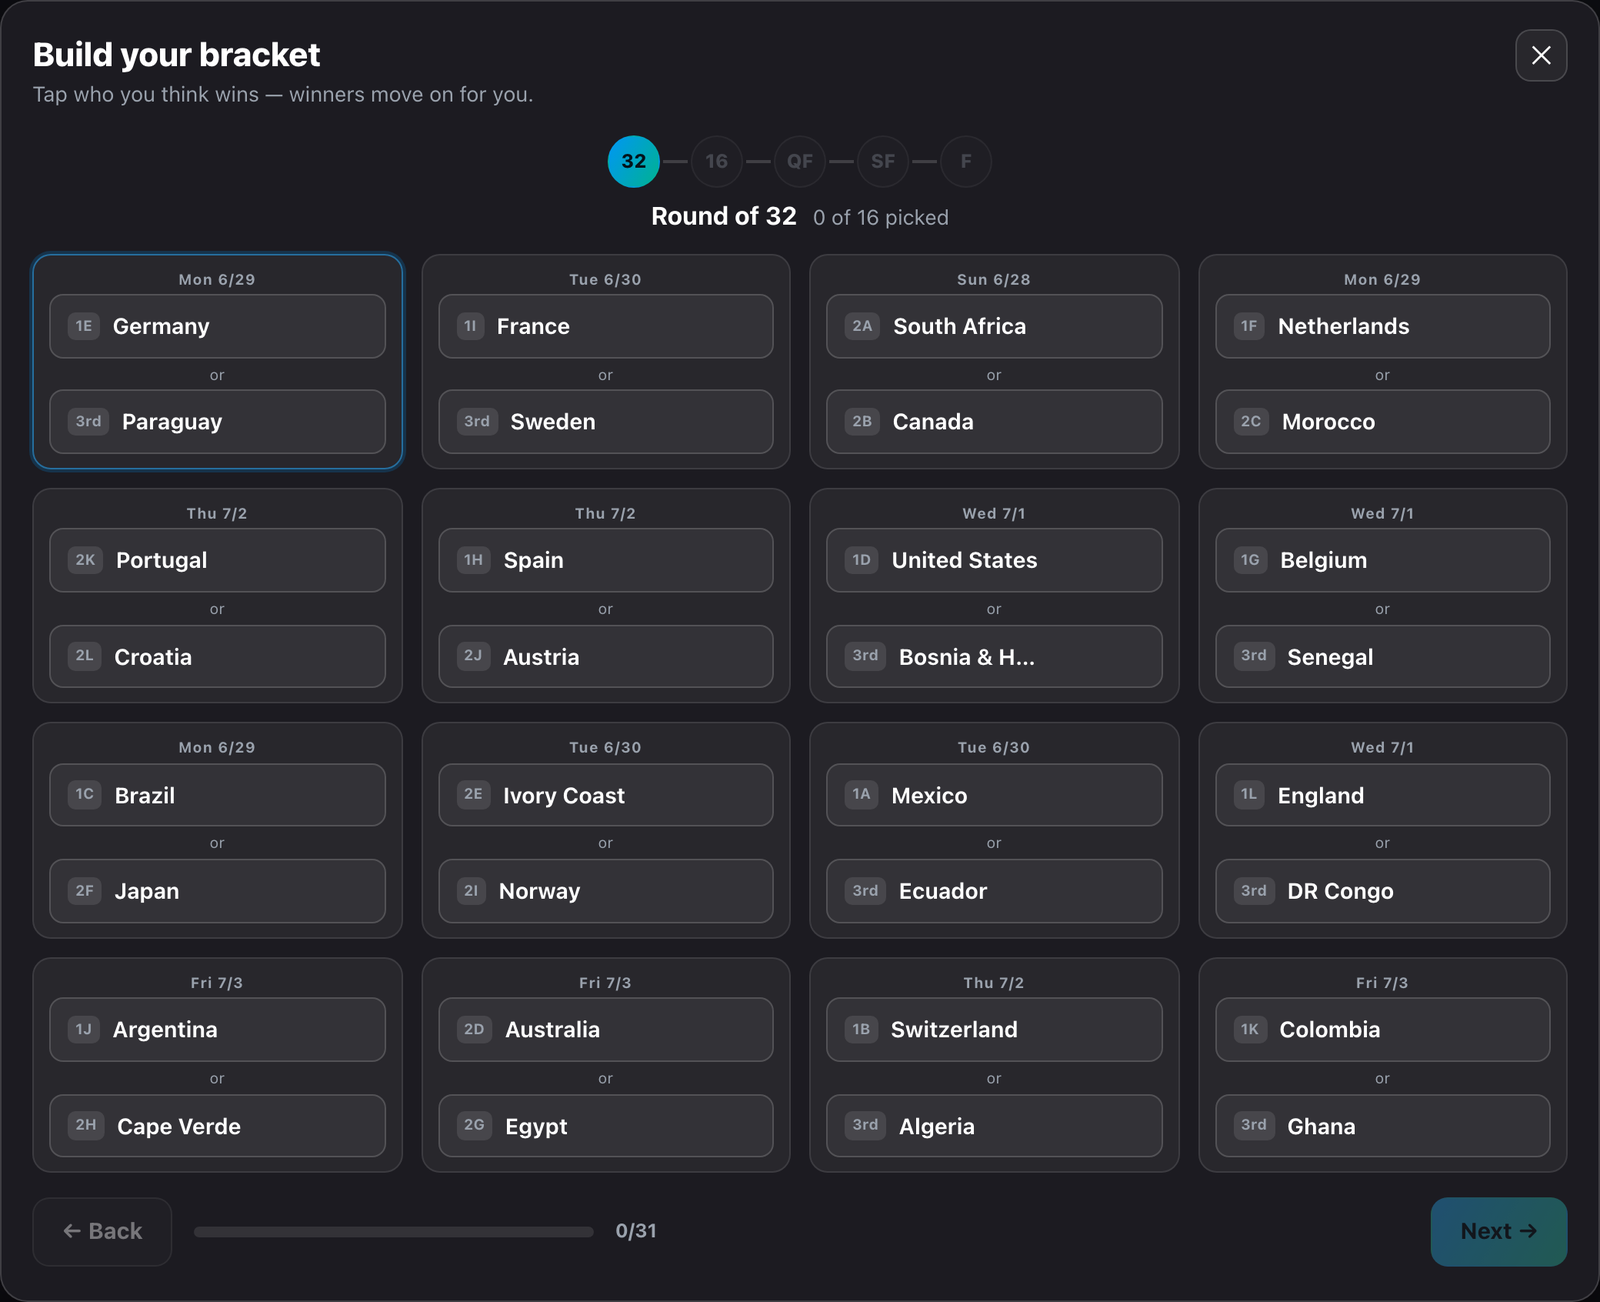
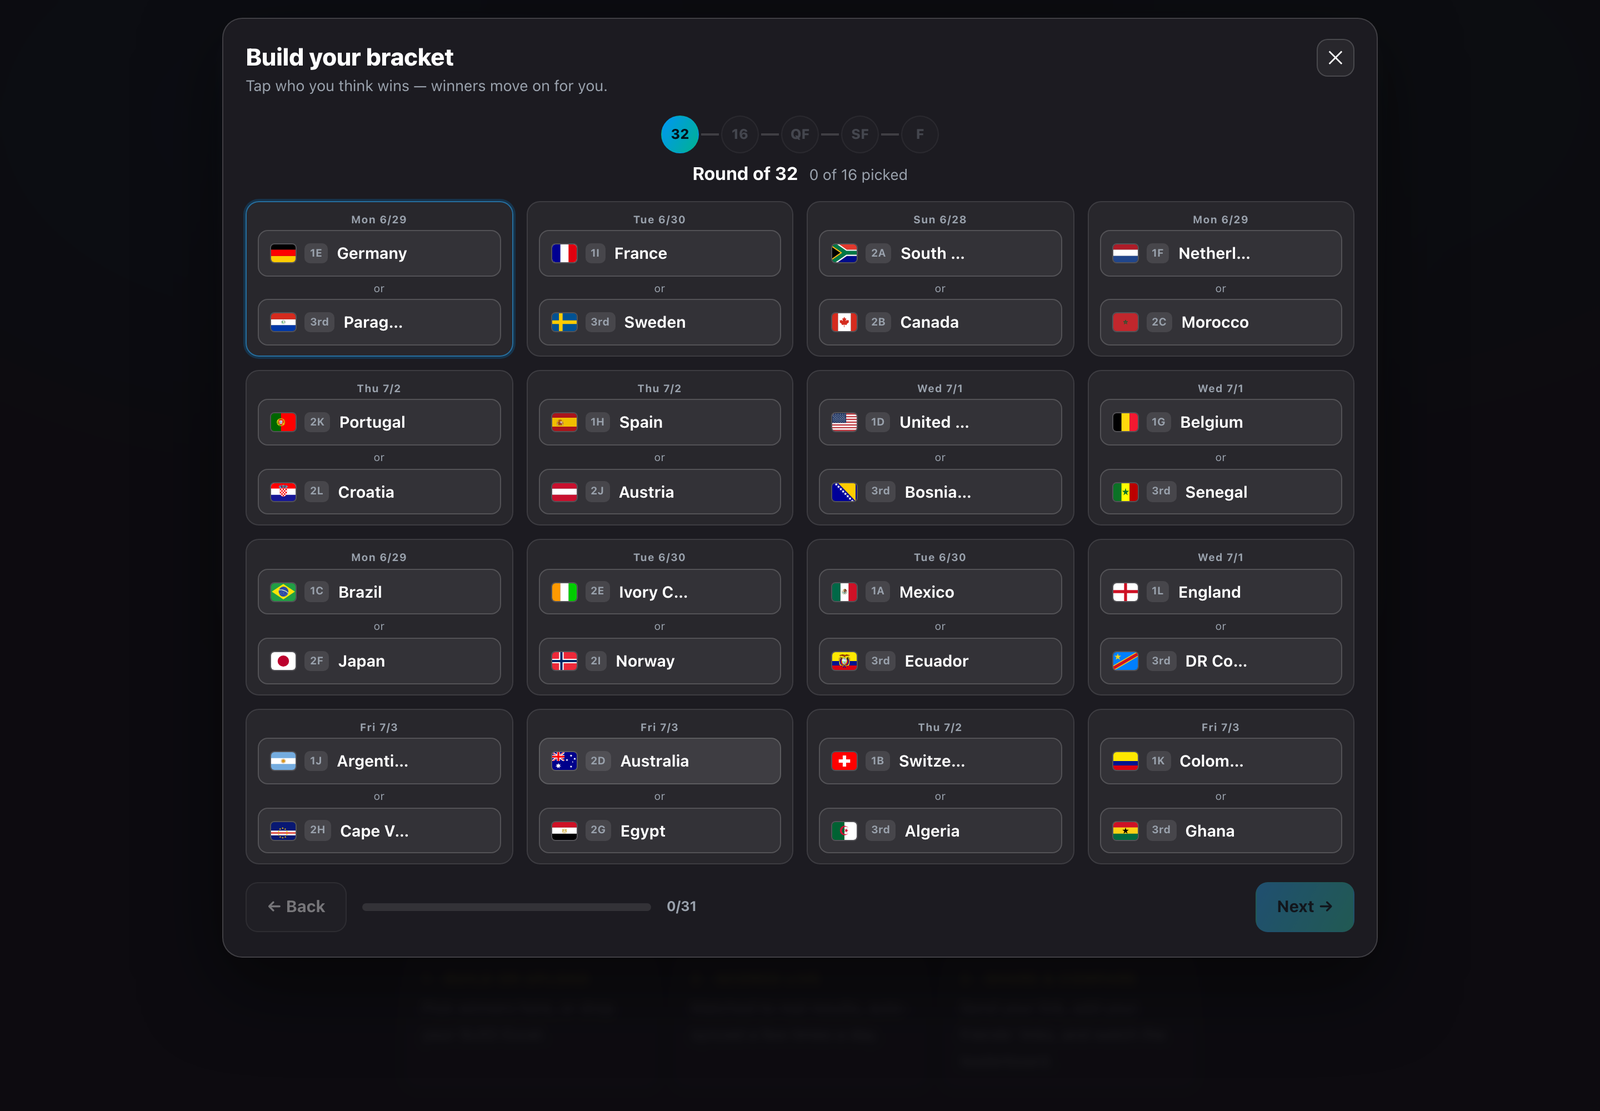
Update the builder screenshot to show the new country flags
Recaptured the click-to-pick builder from the updated app (each team now
renders its bundled flag SVG) and replaced docs/assets/shots/builder.png.
Refreshed the caption and alt text to mention the flags.

diff --git a/docs/index.html b/docs/index.html
@@ -322,13 +322,13 @@ P=_load("picks.json"); L=_load("live.json"); T=_load("topology.json")</pre>
   </figure>
   <div class="figrow reveal">
     <figure class="figbig mb0">
-      <div class="shotwrap" data-zoom data-cap="The click-to-pick builder. Tap who wins, round by round, no spreadsheet needed.">
+      <div class="shotwrap" data-zoom data-cap="The click-to-pick builder, now with country flags. Tap who wins, round by round, no spreadsheet needed.">
         <span class="zoomhint">Enlarge</span>
         <img data-shot="builder.png" src="assets/shots/builder.png" loading="lazy" decoding="async"
-          alt="The click-to-pick builder. Tap who you think wins, round by round from the Round of 32 to the Final, no spreadsheet needed.">
+          alt="The click-to-pick builder. Every team shows its country flag. Tap who you think wins, round by round from the Round of 32 to the Final, no spreadsheet needed.">
       </div>
-      <figcaption class="cap"><b>No spreadsheet.</b> Tap who wins, round by round. Same dashboard,
-      nothing to download.</figcaption>
+      <figcaption class="cap"><b>No spreadsheet.</b> Tap who wins, round by round, each team with
+      its country flag. Same dashboard, nothing to download.</figcaption>
     </figure>
     <div class="lookfor" style="align-content:center">
       <span class="tagx">Upload your Excel</span>